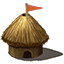
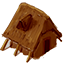
Added new art and animation, added Effect class, fixed some curly bracket placements

diff --git a/js/entities/guicontainer.js b/js/entities/guicontainer.js
@@ -1,6 +1,8 @@
 /* GUIContainer: contains a group of GUI elements */
-Main.GUIContainer = me.Renderable.extend({
-    init: function(x, y, objects) {
+Main.GUIContainer = me.Renderable.extend(
+{
+    init: function(x, y, objects)
+    {
         if (x == null) {
             x = 0;
         }
@@ -18,7 +20,8 @@ Main.GUIContainer = me.Renderable.extend({
     visible: true,
     GUIObjects: null,
     // sets the children of the GUIContainer
-    setGUIObjects: function(objects) {
+    setGUIObjects: function(objects)
+    {
         this.GUIObjects = new Array();
         this.width = 0;
         this.height = 0;
@@ -27,7 +30,8 @@ Main.GUIContainer = me.Renderable.extend({
         }
     },
     // adds children to the GUIContainer
-    addGUIObjects: function(objects) {
+    addGUIObjects: function(objects)
+    {
         for (var i = 0; i < objects.length; i++) {
             this.addGUIObject(objects[i]);
         }
@@ -43,10 +47,12 @@ Main.GUIContainer = me.Renderable.extend({
             this.height = object.pos.y + object.height;
         }
     },
-    update: function() {
+    update: function() 
+    {
         return true;
     },
-    draw: function(ctx) {
+    draw: function(ctx)
+    {
         if (!this.visible) return;
         ctx.save();
         ctx.translate(this.pos.x, this.pos.y);

diff --git a/js/main.js b/js/main.js
@@ -1,8 +1,10 @@
 
 /* Main object */
-var Main = {
+var Main =
+{
     // Run on page load.
-    onload: function () {
+    onload: function () 
+    {
         // Initialize the video.
         if (!me.video.init("screen", Constants.screenWidth,
                                      Constants.screenHeight,
@@ -13,7 +15,8 @@ var Main = {
 		
 		// add "#debug" to the URL to enable the debug Panel
 		if (document.location.hash === "#debug") {
-			window.onReady(function () {
+			window.onReady(function ()
+            {
 				me.plugin.register.defer(debugPanel, "debug");
 			});
 		}
@@ -32,7 +35,8 @@ var Main = {
     },
 
     // Run on game resources loaded.
-    loaded: function () {
+    loaded: function ()
+    {
         this.font = new me.BitmapFont("ugly_font", 32, 0.25);
         this.levelScreen = new Main.LevelScreen();
         me.state.set(me.state.PLAY, this.levelScreen);
@@ -43,7 +47,7 @@ var Main = {
         me.input.bindMouse(me.input.mouse.LEFT, 1000);
 
         // Start the game.
-        me.state.change(me.state.PLAY, levelData[1]);
+        me.state.change(me.state.PLAY, levelData[2]);
     },
 
     levelScreen: null, // reference to the levelScreen

diff --git a/js/entities/text.js b/js/entities/text.js
@@ -1,6 +1,8 @@
 // TextObject: Draws a text
-Main.TextObject = me.Renderable.extend({
-    init: function(x, y, text, font) {
+Main.TextObject = me.Renderable.extend(
+{
+    init: function(x, y, text, font)
+    {
         this.parent(new me.Vector2d(x, y), font.height, font.height);
         this.text = text;
         this.font = font;
@@ -8,18 +10,22 @@ Main.TextObject = me.Renderable.extend({
     },
     text: null,
     /* setText: sets the text */
-    setText: function(text) {
+    setText: function(text)
+    {
         this.text = text;
     },
     /* setPos: sets the counter's position to the desired x and y values and
      * updates its text */
-    setPos: function(x, y) {
+    setPos: function(x, y)
+    {
         this.pos = new me.Vector2d(x, y);
     },
-    update: function() {
+    update: function()
+    {
         return true;
     },
-    draw: function(ctx) {
+    draw: function(ctx)
+    {
         this.font.draw(ctx, this.text, this.pos.x, this.pos.y);
     }
 });

diff --git a/js/entities/ai.js b/js/entities/ai.js
@@ -1,9 +1,10 @@
-Main.AI = Object.extend({
+Main.AI = Object.extend(
+{
     name: "", // string containing information about which player this is
     myBuildings: null, // array of buildings owned by the AI
     currentTarget: null, // reference to current target building
     counter: 0, // amount of miliseconds since last sending of units
-    timeUntilNextWave: 6000, // amount of miliseconds until sending the next
+    timeUntilNextWave: 4000, // amount of miliseconds until sending the next
                              // wave of armies
     active: true, // whether this AI is doing stuff
     attacking: false, // whether this AI is currently attacking

diff --git a/js/entities/buttons/building.js b/js/entities/buttons/building.js
@@ -44,7 +44,8 @@ Main.Building = Main.Button.extend(
 	},
 
     // returns image string for this building
-    getImage: function() {
+    getImage: function()
+    {
         return this.owner+"_"+this.type;
     },
 	
@@ -119,6 +120,9 @@ Main.Building = Main.Button.extend(
 	// fights with the arriving Army if they losethe building changes from owner
 	defend: function(owner, type, amount)
 	{
+        me.game.add(new Main.Effect(this.pos.x - this.width/2,
+                                    this.pos.y - this.height/2),
+                    100);
 		// TODO: add actually battleResult system;
 		var battleResult = this.fight(owner, type, amount);
 

diff --git a/js/entities/effect.js b/js/entities/effect.js
@@ -1,0 +1,18 @@
+Main.Effect = me.AnimationSheet.extend(
+{
+    init: function(x, y, image)
+    {
+        if (image == null) {
+            image = "battle_animation";
+        }
+        this.parent(x, y, me.loader.getImage(image), 128);
+        this.addAnimation("0", [0,1,2,3,4,5]);
+        this.addAnimation("1", [7,8,9,10,11,12,13,14,15,16,17]);
+        this.addAnimation("2", [17,18,19,20,21,22,23,24,25,26]);
+        this.addAnimation("3", [27,28,29,30,31,32,33,34,35,36,37,38]);
+        this.setCurrentAnimation(""+Math.round(Math.random()*3), (function()
+        {
+            me.game.remove(this);
+        }.bind(this)));
+    }
+});

diff --git a/index.html b/index.html
@@ -38,6 +38,7 @@
         <script type="text/javascript" src="js/entities/guicontainer.js"></script>
         <script type="text/javascript" src="js/entities/text.js"></script>
         <script type="text/javascript" src="js/entities/ai.js"></script>
+        <script type="text/javascript" src="js/entities/effect.js"></script>
         <script type="text/javascript" src="data/levelData.js"></script>
 		
 		<!-- Bootstrap & Mobile optimization tricks -->

diff --git a/js/resources.js b/js/resources.js
@@ -30,6 +30,9 @@ resources = [
     {name: "comp3_farmer", type: "image",
      src: "data/img/armies/comp3_farmer.png"},
 
+    {name: "battle_animation", type: "image",
+     src: "data/img/armies/battle_animation.png"},
+
     {name: "ugly_font", type: "image",
      src: "data/img/gui/ugly_font.png"},
 	
